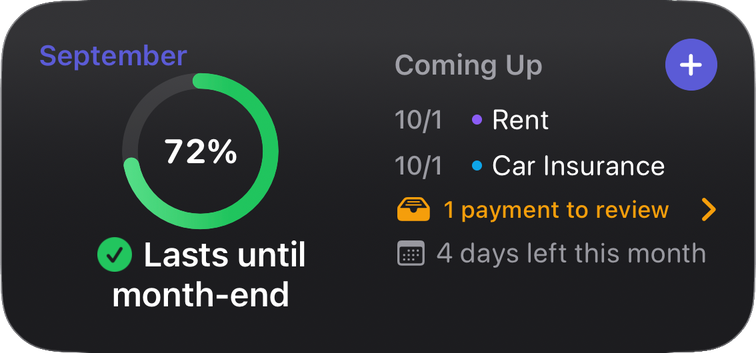
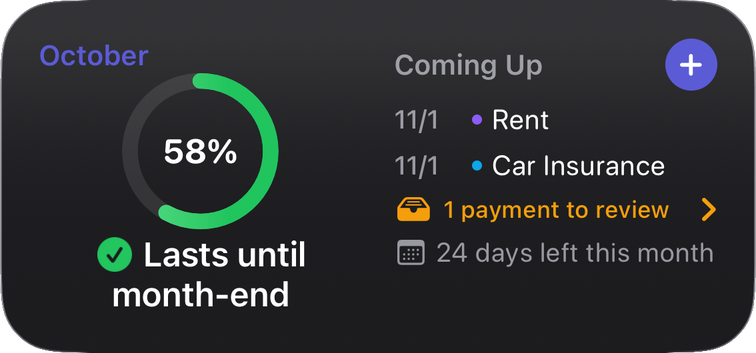
Neue Analyse, Belegabgleich und frische Bilder
Alle Bildschirmfotos stammen aus denselben Aufnahmen wie die neuen
App-Store-Bilder: Übersicht, Beleg prüfen, „Zu prüfen“ mit vier
Apple-Pay-Zahlungen, die neue Analyse, Buchungen, das iPad in zwei
Spalten, beide Widgets und das Vorschaubild für geteilte Links.

Die Analyse beschreibt Prognose, Fixkosten und Alltag, die Aufschlüsselung
nach Händler mit eigener Seite und das Antippen eines Monats. Neu erwähnt:
Beleg an eine schon gebuchte Zahlung anhängen, Fixkosten als Spesen und in
fremder Währung sowie zwei Spalten auf dem aufgeklappten iPhone Duo.

diff --git a/index.html b/index.html
@@ -407,9 +407,9 @@
     </div>
     <div class="hero-visual">
       <img class="shot hero-phone" src="bilder/uebersicht.jpg" width="660" height="1434" fetchpriority="high"
-           alt="Die Übersicht in Monatskasse: Im September sind von 3.500 € Budget noch 1.000,66 € übrig, 71 Prozent sind genutzt.">
+           alt="Die Übersicht in Monatskasse: Im Oktober sind von 3.500 € Budget noch 1.578,45 € übrig, 55 Prozent sind genutzt.">
       <img class="hero-widget" src="bilder/widget-klein.png" width="353" height="353"
-           alt="Kleines Widget auf dem Home-Bildschirm: 71 % des Budgets genutzt, darunter „Reicht bis Monatsende“ und eine Zahlung zu prüfen.">
+           alt="Kleines Widget auf dem Home-Bildschirm: 55 % des Budgets genutzt, darunter „Reicht bis Monatsende“ und eine Zahlung zu prüfen.">
     </div>
   </div>
 </header>
@@ -432,13 +432,14 @@
           <li><svg class="i" aria-hidden="true"><use href="#i-check"/></svg><span>Kassenbeleg fotografieren: Summe, Datum und Positionen werden auf dem Gerät erkannt – mit Rechenprobe, damit die Beträge stimmen</span></li>
           <li><svg class="i" aria-hidden="true"><use href="#i-check"/></svg><span>Rechnung geteilt? Durch Personen teilen oder deinen Anteil eintragen – auch nachträglich, etwa bei einer Apple-Pay-Zahlung</span></li>
           <li><svg class="i" aria-hidden="true"><use href="#i-check"/></svg><span>Im Ausland bezahlt? Betrag in der fremden Währung erfassen – Monatskasse rechnet mit dem Tageskurs der Europäischen Zentralbank um und merkt sich, was du bezahlt hast</span></li>
-          <li><svg class="i" aria-hidden="true"><use href="#i-check"/></svg><span>Spesen? Belege sammeln und mit einem Tipp als Abrechnung an die Buchhaltung geben – PDF mit allen Belegen, Tabelle und Originaldateien</span></li>
+          <li><svg class="i" aria-hidden="true"><use href="#i-check"/></svg><span>Schon gebucht? Gehört ein gescannter Beleg zu Fixkosten oder einer Apple-Pay-Zahlung, die schon da ist, schlägt Monatskasse vor, ihn dort anzuhängen – statt doppelt zu zählen</span></li>
+          <li><svg class="i" aria-hidden="true"><use href="#i-check"/></svg><span>Spesen? Belege sammeln und mit einem Tipp als Abrechnung an die Buchhaltung geben – PDF mit allen Belegen, Tabelle und Originaldateien. Auch Fixkosten lassen sich als Spesen führen, etwa ein Abo fürs Geschäft</span></li>
           <li><svg class="i" aria-hidden="true"><use href="#i-check"/></svg><span>Auch mit Siri, mit Kurzbefehlen oder über den Knopf im Kontrollzentrum</span></li>
         </ul>
       </div>
       <figure class="media">
         <img class="shot" src="bilder/erfassen.jpg" width="660" height="1434" loading="lazy" decoding="async"
-             alt="Auswahl beim Erfassen: Ausgabe erfassen oder Beleg scannen.">
+             alt="Beleg prüfen: Ein Kassenzettel über 16,76 € ist erkannt, die vier Positionen ergeben genau die Summe, als Kategorie ist Lebensmittel vorgeschlagen.">
       </figure>
     </article>
 
@@ -455,7 +456,7 @@
       </div>
       <figure class="media">
         <img class="shot" src="bilder/apple-pay.jpg" width="660" height="1434" loading="lazy" decoding="async"
-             alt="Apple Pay in Monatskasse: Zahlungen kommen an, dazu deine Karten mit ihren Zahlarten.">
+             alt="Zu prüfen: Vier Zahlungen mit Apple Pay – Bäckerei, Wochenmarkt, Café am Markt und Tankstelle – warten darauf, mit einem Tipp übernommen zu werden.">
       </figure>
     </article>
 
@@ -463,16 +464,17 @@
       <div class="copy">
         <p class="kicker"><svg class="i" aria-hidden="true"><use href="#i-chart"/></svg>Analyse</p>
         <h3>Sehen, wohin das Geld geht</h3>
-        <p>Wie steht der Monat im Vergleich zum Vormonat und zu deinem Schnitt? Wo landest du, wenn es so weitergeht? Monatskasse rechnet es dir aus.</p>
+        <p>Wie steht der Monat im Vergleich zum Vormonat? Wo landest du, wenn es so weitergeht? Und wohin geht das Geld eigentlich? Monatskasse zeigt es dir – zum Antippen und Darüberfahren.</p>
         <ul class="checks">
-          <li><svg class="i" aria-hidden="true"><use href="#i-check"/></svg><span>Der Monat Tag für Tag neben dem Vormonat, dazu der Verlauf über drei, sechs oder zwölf Monate</span></li>
-          <li><svg class="i" aria-hidden="true"><use href="#i-check"/></svg><span>Aufgeteilt nach Kategorien, Zahlarten, größten Posten und Wochentagen</span></li>
-          <li><svg class="i" aria-hidden="true"><use href="#i-check"/></svg><span>Hochrechnung aufs Monatsende und der Anteil deiner Fixkosten</span></li>
+          <li><svg class="i" aria-hidden="true"><use href="#i-check"/></svg><span>Der Monat Tag für Tag neben dem Vormonat, mit Prognose bis zum Monatsende</span></li>
+          <li><svg class="i" aria-hidden="true"><use href="#i-check"/></svg><span>Der Verlauf über drei, sechs oder zwölf Monate, aufgeteilt in Fixkosten und Alltag</span></li>
+          <li><svg class="i" aria-hidden="true"><use href="#i-check"/></svg><span>Nach Kategorie, Zahlart oder Händler – jede mit eigener Seite und allen Buchungen dahinter</span></li>
+          <li><svg class="i" aria-hidden="true"><use href="#i-check"/></svg><span>Einen Monat antippen, und alles darunter zeigt genau ihn – bis zu den Wochentagen</span></li>
         </ul>
       </div>
       <figure class="media">
         <img class="shot" src="bilder/analyse.jpg" width="660" height="1434" loading="lazy" decoding="async"
-             alt="Analyse: 2.499,34 € im September, 20 Prozent weniger als im Vormonat am selben Tag, der Monat Tag für Tag neben dem Vormonat, dazu Schnitt und Kennzahlen der letzten sechs Monate.">
+             alt="Analyse: 1.921,55 € im Oktober, 14 Prozent weniger als im September am selben Tag, voraussichtlich 3.029 € und damit 471 € unter Budget. Darunter der Verlauf mit 2.904 € im Schnitt und fünf von fünf Monaten im Budget.">
       </figure>
     </article>
 
@@ -485,6 +487,7 @@
           <li><svg class="i" aria-hidden="true"><use href="#i-check"/></svg><span>Täglich, wöchentlich, monatlich oder jährlich</span></li>
           <li><svg class="i" aria-hidden="true"><use href="#i-check"/></svg><span>Im Tagesschnitt über den Monat verteilt, statt dich am Monatsersten zu erschrecken</span></li>
           <li><svg class="i" aria-hidden="true"><use href="#i-check"/></svg><span>Erinnerung einen Tag vor großen Fixkosten</span></li>
+          <li><svg class="i" aria-hidden="true"><use href="#i-check"/></svg><span>Auch in fremder Währung – jede Buchung mit dem Kurs ihres Tages</span></li>
         </ul>
       </div>
       <figure class="media">
@@ -508,15 +511,15 @@
         <p>Widgets in drei Größen und auf dem Sperrbildschirm zeigen, ob dein Budget bis Monatsende reicht, was pro Tag bleibt und was ansteht. Beträge siehst du nur, wenn du sie einschaltest.</p>
         <div class="widget-stage">
           <img src="bilder/widget-mittel.png" width="756" height="353" loading="lazy" decoding="async"
-               alt="Mittleres Widget: 71 % des Budgets genutzt, darunter „Reicht bis Monatsende“. Rechts, was ansteht: Warmmiete und Strom am 1. Oktober, eine Zahlung zu prüfen und noch 4 Tage im Monat.">
+               alt="Mittleres Widget: 55 % des Budgets genutzt, darunter „Reicht bis Monatsende“. Rechts, was ansteht: Warmmiete und Strom am 1. November, eine Zahlung zu prüfen und noch 24 Tage im Monat.">
         </div>
       </div>
       <div class="card card-ipad">
         <p class="kicker"><svg class="i" aria-hidden="true"><use href="#i-devices"/></svg>iPhone und iPad</p>
         <h3>Überall derselbe Stand</h3>
-        <p>Deine Einträge gleichen sich über deine iCloud automatisch ab. Auf dem iPad mit Seitenleiste und viel Platz.</p>
+        <p>Deine Einträge gleichen sich über deine iCloud automatisch ab. Auf dem iPad und dem aufgeklappten iPhone Duo in zwei Spalten, mit viel Platz.</p>
         <img class="ipad" src="bilder/ipad.jpg" width="1032" height="1376" loading="lazy" decoding="async"
-             alt="Monatskasse auf dem iPad mit Budget-Ring, Kennzahlen und Aufteilung nach Kategorien.">
+             alt="Monatskasse auf dem iPad in zwei Spalten: links Budget-Ring und Kennzahlen, rechts die Aufteilung nach Kategorien und die letzten Ausgaben.">
       </div>
     </div>
   </div>
@@ -926,7 +929,7 @@
       <details>
         <summary>Welche Geräte werden unterstützt?</summary>
         <div>
-          <p>iPhone und iPad ab iOS bzw. iPadOS 18.5.</p>
+          <p>iPhone und iPad ab iOS bzw. iPadOS 18.5. Auf dem iPad und dem aufgeklappten iPhone Duo zeigt Monatskasse zwei Spalten.</p>
         </div>
       </details>
     </div>

diff --git a/en/index.html b/en/index.html
@@ -408,9 +408,9 @@
     </div>
     <div class="hero-visual">
       <img class="shot hero-phone" src="images/overview.jpg" width="660" height="1434" fetchpriority="high"
-           alt="The overview in My Budget: in September, $1,410.40 of a $5,000 budget is left, 72 percent used.">
+           alt="The overview in My Budget: in October, $2,096.83 of a $5,000 budget is left, 58 percent used.">
       <img class="hero-widget" src="images/widget-small.png" width="353" height="353"
-           alt="Small widget on the Home Screen: 72% of the budget used, “Lasts until month-end” below it, and one payment to review.">
+           alt="Small widget on the Home Screen: 58% of the budget used, “Lasts until month-end” below it, and one payment to review.">
     </div>
   </div>
 </header>
@@ -433,13 +433,14 @@
           <li><svg class="i" aria-hidden="true"><use href="#i-check"/></svg><span>Snap a photo of a receipt: the total, date and items are recognized on your device – with an arithmetic check, sales tax included, so the amounts add up</span></li>
           <li><svg class="i" aria-hidden="true"><use href="#i-check"/></svg><span>Shared a bill? Divide it by the number of people or enter your share – even afterward, for example for an Apple Pay payment</span></li>
           <li><svg class="i" aria-hidden="true"><use href="#i-check"/></svg><span>Paid abroad? Log the amount in the local currency – My Budget converts it at the European Central Bank’s daily rate and keeps what you paid</span></li>
-          <li><svg class="i" aria-hidden="true"><use href="#i-check"/></svg><span>Business trip? Collect receipts and hand them to accounting as one report with a tap – a PDF with every receipt, a table and the original files</span></li>
+          <li><svg class="i" aria-hidden="true"><use href="#i-check"/></svg><span>Already logged? If a scanned receipt belongs to a recurring bill or an Apple Pay payment that’s already there, My Budget offers to attach it there – instead of counting it twice</span></li>
+          <li><svg class="i" aria-hidden="true"><use href="#i-check"/></svg><span>Business trip? Collect receipts and hand them to accounting as one report with a tap – a PDF with every receipt, a table and the original files. Recurring bills can be business expenses too, like a software subscription for work</span></li>
           <li><svg class="i" aria-hidden="true"><use href="#i-check"/></svg><span>Also with Siri, with Shortcuts or with the button in Control Center</span></li>
         </ul>
       </div>
       <figure class="media">
         <img class="shot" src="images/add.jpg" width="660" height="1434" loading="lazy" decoding="async"
-             alt="Choosing what to log: Log Expense or Scan Receipt.">
+             alt="Check Receipt: a $18.76 receipt is recognized, the four items add up exactly to the total, and Groceries is suggested as the category.">
       </figure>
     </article>
 
@@ -456,7 +457,7 @@
       </div>
       <figure class="media">
         <img class="shot" src="images/apple-pay.jpg" width="660" height="1434" loading="lazy" decoding="async"
-             alt="Apple Pay in My Budget: payments are arriving, along with your cards and their payment methods.">
+             alt="To Review: four Apple Pay payments – Bakery, Farmers Market, Corner Café and Gas Station – waiting to be confirmed with a tap.">
       </figure>
     </article>
 
@@ -464,16 +465,17 @@
       <div class="copy">
         <p class="kicker"><svg class="i" aria-hidden="true"><use href="#i-chart"/></svg>Insights</p>
         <h3>See where your money goes</h3>
-        <p>How does this month compare with last month and with your average? Where will you end up if things keep going like this? My Budget does the math for you.</p>
+        <p>How does this month compare with last month? Where will you end up if things keep going like this? And where does the money actually go? My Budget shows you – tap, or touch and slide.</p>
         <ul class="checks">
-          <li><svg class="i" aria-hidden="true"><use href="#i-check"/></svg><span>The month day by day next to last month, plus the history over three, six or twelve months</span></li>
-          <li><svg class="i" aria-hidden="true"><use href="#i-check"/></svg><span>Broken down by category, payment method, top spending and weekday</span></li>
-          <li><svg class="i" aria-hidden="true"><use href="#i-check"/></svg><span>A projection for the end of the month and the share of your recurring bills</span></li>
+          <li><svg class="i" aria-hidden="true"><use href="#i-check"/></svg><span>The month day by day next to last month, with a forecast to the end of the month</span></li>
+          <li><svg class="i" aria-hidden="true"><use href="#i-check"/></svg><span>The history over three, six or twelve months, split into recurring bills and everyday spending</span></li>
+          <li><svg class="i" aria-hidden="true"><use href="#i-check"/></svg><span>By category, payment method or merchant – each with its own page and every expense behind it</span></li>
+          <li><svg class="i" aria-hidden="true"><use href="#i-check"/></svg><span>Tap a month, and everything below shows just that month – down to the weekdays</span></li>
         </ul>
       </div>
       <figure class="media">
         <img class="shot" src="images/insights.jpg" width="660" height="1434" loading="lazy" decoding="async"
-             alt="Insights: $3,589.60 in September, 16 percent less than last month on the same day, the month day by day next to last month, plus the average and key figures of the last six months.">
+             alt="Insights: $2,903.17 in October, 11 percent less than September by day 8, a forecast of $4,132 and so $868 under budget. Below, the history with an average of $3,963 and five of five months within budget.">
       </figure>
     </article>
 
@@ -486,6 +488,7 @@
           <li><svg class="i" aria-hidden="true"><use href="#i-check"/></svg><span>Daily, weekly, monthly or yearly</span></li>
           <li><svg class="i" aria-hidden="true"><use href="#i-check"/></svg><span>Spread over the month in the daily average instead of giving you a shock on the first</span></li>
           <li><svg class="i" aria-hidden="true"><use href="#i-check"/></svg><span>A reminder one day before large recurring bills</span></li>
+          <li><svg class="i" aria-hidden="true"><use href="#i-check"/></svg><span>In a foreign currency, too – each expense at the rate of its day</span></li>
         </ul>
       </div>
       <figure class="media">
@@ -509,15 +512,15 @@
         <p>Widgets in three sizes and on the Lock Screen show whether your budget lasts until month-end, what’s left per day and what’s coming up. Amounts only appear if you turn them on.</p>
         <div class="widget-stage">
           <img src="images/widget-medium.png" width="756" height="353" loading="lazy" decoding="async"
-               alt="Medium widget: 72% of the budget used, “Lasts until month-end” below it. On the right, what’s coming up: rent and car insurance on October 1, one payment to review and 4 days left this month.">
+               alt="Medium widget: 58% of the budget used, “Lasts until month-end” below it. On the right, what’s coming up: rent and car insurance on November 1, one payment to review and 24 days left this month.">
         </div>
       </div>
       <div class="card card-ipad">
         <p class="kicker"><svg class="i" aria-hidden="true"><use href="#i-devices"/></svg>iPhone and iPad</p>
         <h3>The same numbers everywhere</h3>
-        <p>Your entries sync automatically through your iCloud. On iPad, with a sidebar and plenty of room.</p>
+        <p>Your entries sync automatically through your iCloud. On iPad and the unfolded iPhone Duo in two columns, with plenty of room.</p>
         <img class="ipad" src="images/ipad.jpg" width="1032" height="1376" loading="lazy" decoding="async"
-             alt="My Budget on iPad with the budget ring, key figures and the breakdown by category.">
+             alt="My Budget on iPad in two columns: the budget ring and key figures on the left, the breakdown by category and the latest expenses on the right.">
       </div>
     </div>
   </div>
@@ -919,7 +922,7 @@
       <details>
         <summary>Which devices are supported?</summary>
         <div>
-          <p>iPhone and iPad with iOS or iPadOS 18.5 or later.</p>
+          <p>iPhone and iPad with iOS or iPadOS 18.5 or later. On iPad and the unfolded iPhone Duo, My Budget shows two columns.</p>
         </div>
       </details>
     </div>
